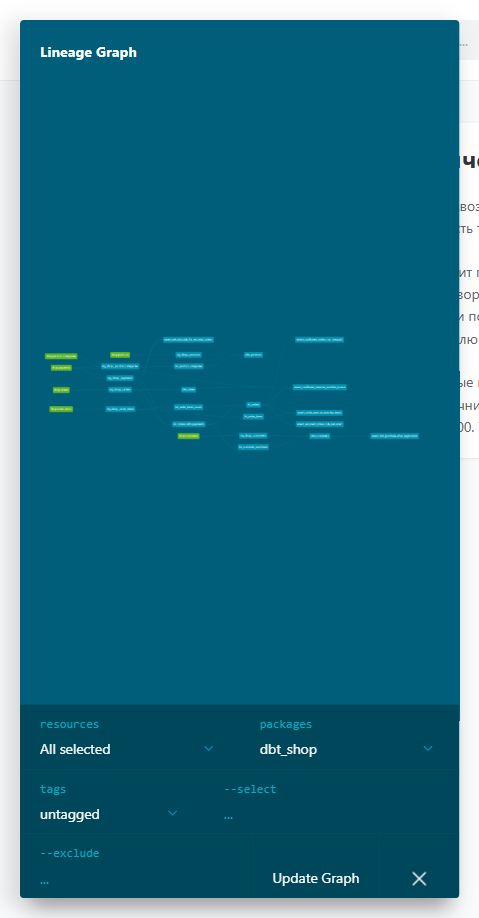
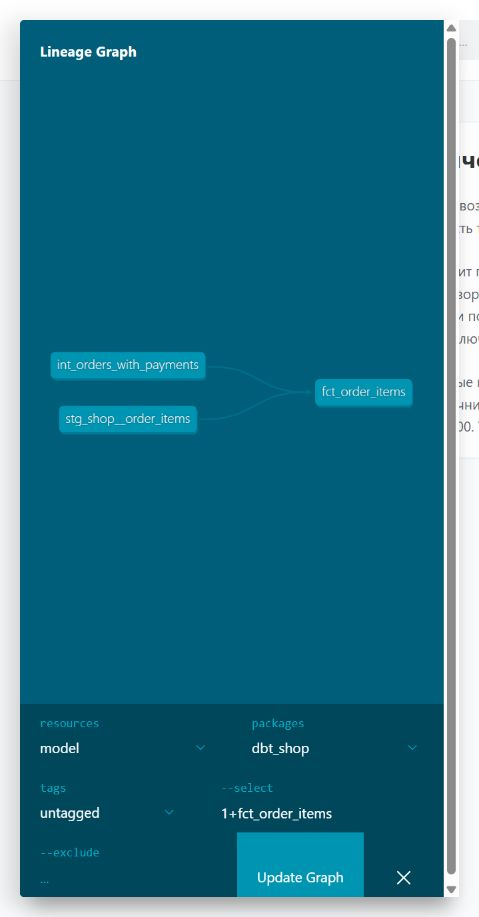
Improve lineage screenshots

diff --git a/README.md b/README.md
@@ -179,6 +179,11 @@ order by c.relname;
 
 ### Граф зависимостей
 
+Общий граф моделей: [обзор lineage](docs/lineage_overview.png).
+Ниже - увеличенный фрагмент для `fct_order_items` и её непосредственных
+зависимостей (`--select 1+fct_order_items`, resources: Models).
+Оба снимка сделаны в `dbt docs serve`.
+
 ![Lineage из dbt docs serve](docs/lineage.png)
 
 ## Тесты
